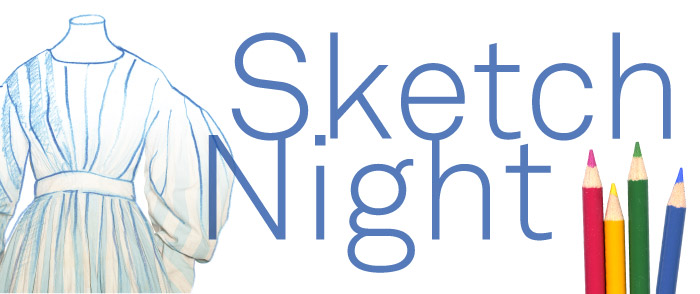
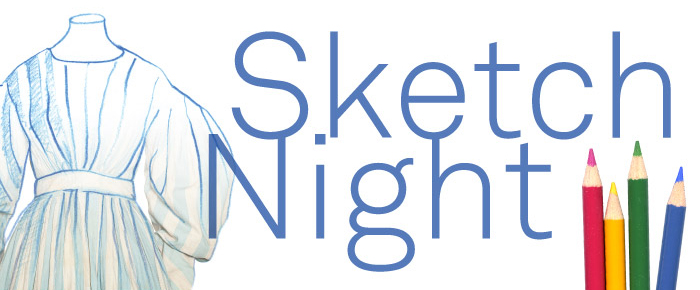
Sketch Night - New

diff --git a/ED/ED1415/052015_sketchnight/ED_05_20_sketch_night.html b/ED/ED1415/052015_sketchnight/ED_05_20_sketch_night.html
@@ -44,7 +44,7 @@
                                 <table width="700" bgcolor="#ffffff" border="0" cellpadding="0" cellspacing="0">
                                     <tr>
                                         <td width="700" style="border-bottom:2px solid #000;">
-                                            <a href="http://www.bgc.bard.edu/gallery/gallery-programs-list.html"><img src="http://resources-bgc.bard.edu/eblasts/ED1415/042215_sketchnight/images/ED_04_22_sketch_night_banner.jpg" width="700" alt="Creating the Ideal: Dressing and Installing Costume Exhibitions"></a>
+                                            <a href="http://www.bgc.bard.edu/gallery/gallery-programs-list.html"><img src="http://bgcresources.dreamhosters.com/eblasts/ED/2015/images/ED_sketch_night_banner.jpg" width="700" alt="Creating the Ideal: Dressing and Installing Costume Exhibitions"></a>
                                         </td>
                                     </tr>
                                 </table>
